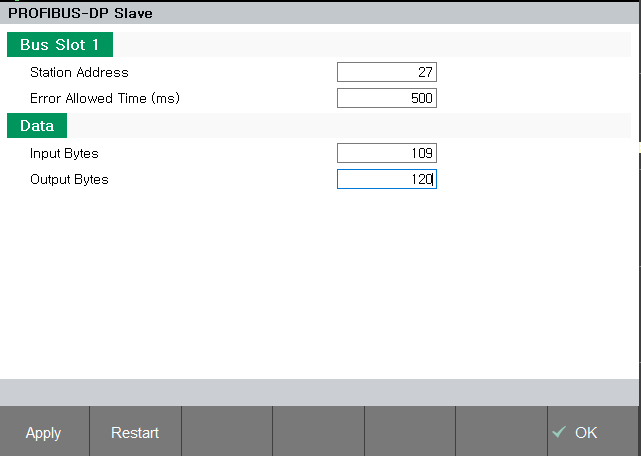
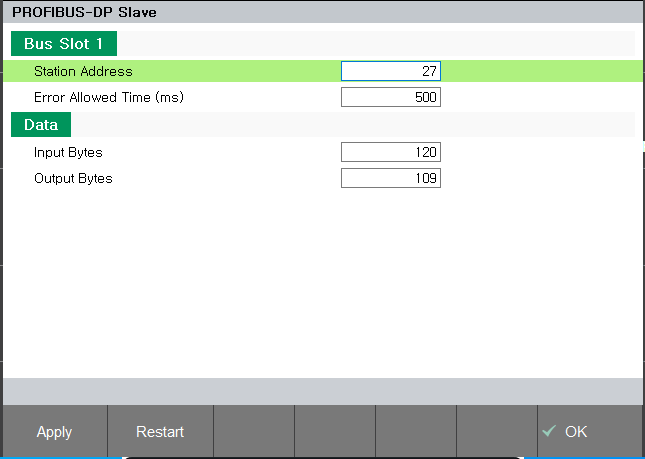
CIFX PCI Profinet Profibus 설명 오류 및 그림 수정

diff --git a/1-cifx-pci-communication/3-cifx-pci-settings-industrial-communication/6-PROFIBUS-DP/4-Settings-PROFIBUS-DP-Slave.md b/1-cifx-pci-communication/3-cifx-pci-settings-industrial-communication/6-PROFIBUS-DP/4-Settings-PROFIBUS-DP-Slave.md
@@ -60,19 +60,24 @@
 {% endhint %}
 
 {% hint style="info" %}
-\.      Master 에서 Module 설정 시
+\.      [**Master 에서 Module 설정 시**]
 
 \.      설정한 바이트 수와 일치하도록 Master에서 Module을 지정해 주어야합니다.
 
-\.      순서 : Input (64 ~ 1) -> Output (64 ~ 1)
+\.      순서 : Master Input (64 ~ 1) -> Master Output (64 ~ 1)
 
-\.      EX) Input 109 Bytes : 64Byte + 32Byte + 8Byte + 4Byte + 1 Byte
+\.      EX) Master Input 109 bytes  <---  Slave Output 109 bytes   
+\.          Input 109 Bytes : 64Byte + 32Byte + 8Byte + 4Byte + 1 Byte
 
-\.      EX) Output 120 Bytes : 64Byte + 32Byte + 16Byte + 8Byte
+\.      EX) Master Output 120 bytes  --->  Slave Input 120 bytes   
+\.          Output 120 Bytes : 64Byte + 32Byte + 16Byte + 8Byte
 
-\.      EX) Output 200 Bytes : 64Byte + 64Byte + 64Byte + 8Byte
 
-\.      EX) Input 12 Bytes : 8Byte + 4Byte
+\.      EX) Master Input 12 bytes  <---  Slave Output 12 bytes   
+\.          Input 12 Bytes : 8Byte + 4Byte
+
+\.      EX) Master Output 200 bytes  --->  Slave Input 200 bytes   
+\.          Output 200 Bytes : 64Byte + 64Byte + 64Byte + 8Byte
 
 \.      입력 Module이 출력 Module 보다 앞에 위치합니다.
 {% endhint %}

diff --git a/1-cifx-pci-communication/3-cifx-pci-settings-industrial-communication/4-PROFINET-IO/4-Settings-PROFINET-IO-Device.md b/1-cifx-pci-communication/3-cifx-pci-settings-industrial-communication/4-PROFINET-IO/4-Settings-PROFINET-IO-Device.md
@@ -66,16 +66,22 @@
 \.      출력 바이트 수 : Slave -> Master 로 출력하는 데이터 크기를 설정합니다.
 {% endhint %}
 
-{% hint style="info" %}
-\.      Master 에서 Slot 설정 시
+<br>
 
-\.      설정한 바이트 수와 일치하도록 Master에서 Slot을 지정해 주어야합니다.
+{% hint style="info" %}
+\.      [**Master 에서 Slot 설정 시**]
+
+\.      Master Input (32byte)  <--  Slave Output (32bytes)
+
+\.      Master Output (256bytes = 64bytes * 4)  -->  Slave Input (256bytes)
 
 \.      4, 8, 16, 32, 64 Bytes -> 각 Bytes 에 맞는 Slot 지정  
 \.      128, 256 Bytes -> 64 Bytes Slot 다수 지정 (2개, 4개)
 
 \.      입력 Slot이 출력 Slot 보다 앞에 위치 합니다.
 {% endhint %}
+
+<br>
 
 ![[그림 1.3.4.4-5 슬레이브 설정]](<../../../_assets/1-cifx-pci-communication/3-cifx-pci-settings-industrial-communication/4-PROFINET-IO/4-Slave_setting/image_5.png>) 
 
